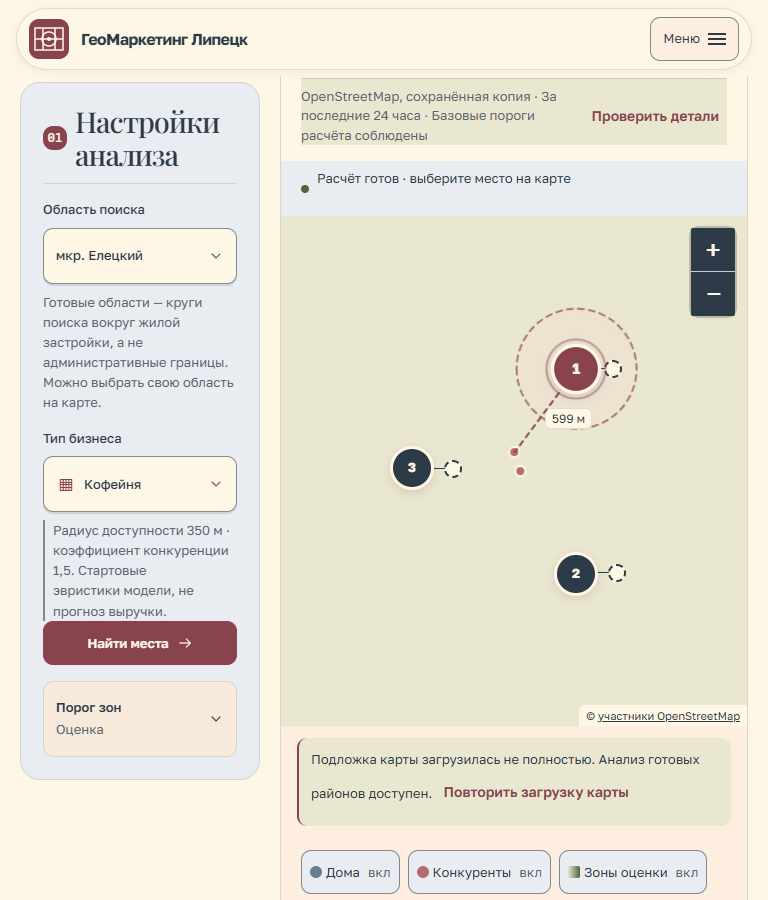
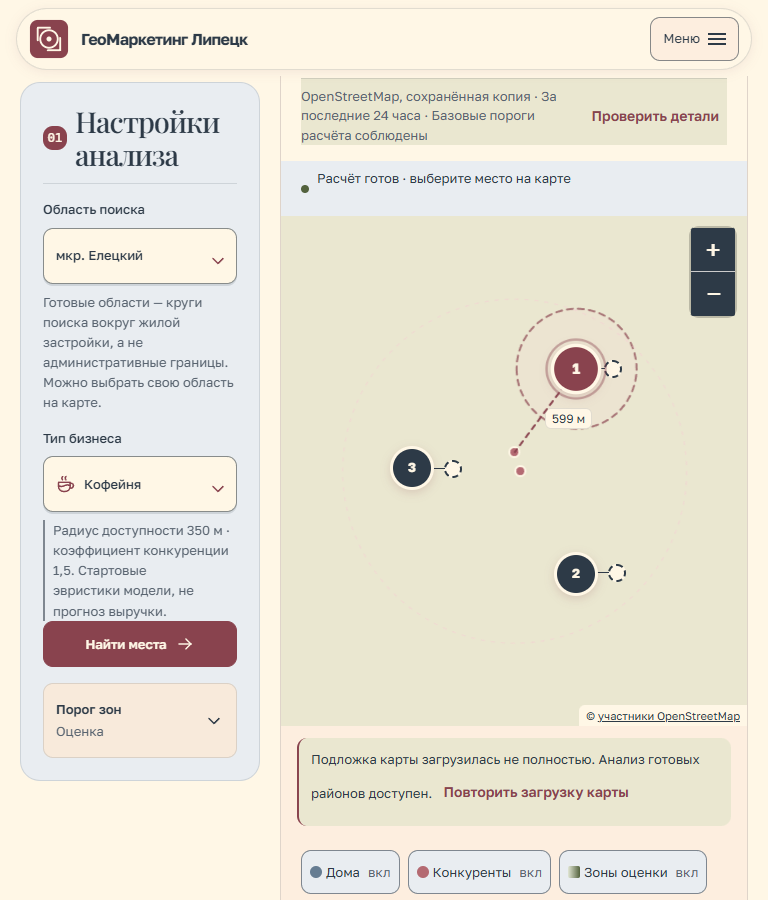
выравнивание карточек и значков

diff --git a/tests/smoke/visual-polish.spec.js b/tests/smoke/visual-polish.spec.js
@@ -5,11 +5,11 @@ test.beforeEach(async({page,baseURL})=>{
  await page.route('**/*',r=>new URL(r.request().url()).origin===baseURL?r.continue():r.abort());
 });
 
-test('курсив включается только на широком экране и схема не заходит на буквы',async({page})=>{
+test('курсив читается на всех ширинах и схема не заходит на буквы',async({page})=>{
  for(const width of [375,768,900,1280,1440,1920]){
   await page.setViewportSize({width,height:1000});await page.goto('/');await page.evaluate(()=>document.fonts.ready);await page.waitForTimeout(1100);
-  await expect(page.locator('#page-title em')).toHaveCSS('font-style',width>=900?'italic':'normal');
-  if(width>=900)await expect(page.locator('#page-title em')).toHaveCSS('color','rgb(180, 106, 114)');
+  await expect(page.locator('#page-title em')).toHaveCSS('font-style','italic');
+  await expect(page.locator('#page-title em')).toHaveCSS('color','rgb(137, 67, 78)');
   const title=await page.locator('#page-title em').boundingBox(),art=await page.locator('#hero-art').boundingBox();
   expect(art.y).toBeGreaterThanOrEqual(title.y+title.height);
   expect(await page.evaluate(()=>document.documentElement.scrollWidth<=innerWidth)).toBe(true);

diff --git a/static/css/palette.css b/static/css/palette.css
@@ -6,7 +6,7 @@
 .choice-option[aria-selected=true],.choice-option.is-active { background:var(--palette-pink-soft); }
 .kpi-card,.data-section,.trust-status { background:var(--tint-data); }
 .recommendations,.saved-section,.comparison { background:var(--tint-decision); }
-.recommendation,.recommendation.selected,.saved-card,.sheet-place { background:var(--palette-cream); }
+#recommendations .recommendation,#recommendations .recommendation.selected,.saved-card,.sheet-place { background:var(--palette-cream); }
 .sheet-place[aria-pressed=true] { background:var(--palette-pink-soft); }
 .map-legend>[aria-pressed=true] { background:var(--tint-analysis); }
 .map-legend [data-layer=houses] .layer-sample { background:var(--palette-sky-deep); }

diff --git a/static/css/icons.css b/static/css/icons.css
@@ -10,4 +10,8 @@ details[open]:not([data-expanded=false])>summary>.ui-icon { transform:rotate(180
 .sheet-close .ui-icon,.map-inspection-close .ui-icon { width:24px; height:24px; }
 .hero-links #hero-map-link>.ui-icon { grid-column:2; grid-row:1; }
 .field-checks>summary>.ui-icon,#data-summary>.ui-icon { position:static; grid-column:-1; align-self:center; }
+@media(max-width:600px){
+ .recommendation .place-actions .save[data-inline-icon] { grid-template-columns:minmax(0,1fr) 20px; }
+ .recommendation .save>.ui-icon { grid-area:1/2; }
+}
 @media(prefers-reduced-motion:reduce){summary>.ui-icon { transition:none; }}
